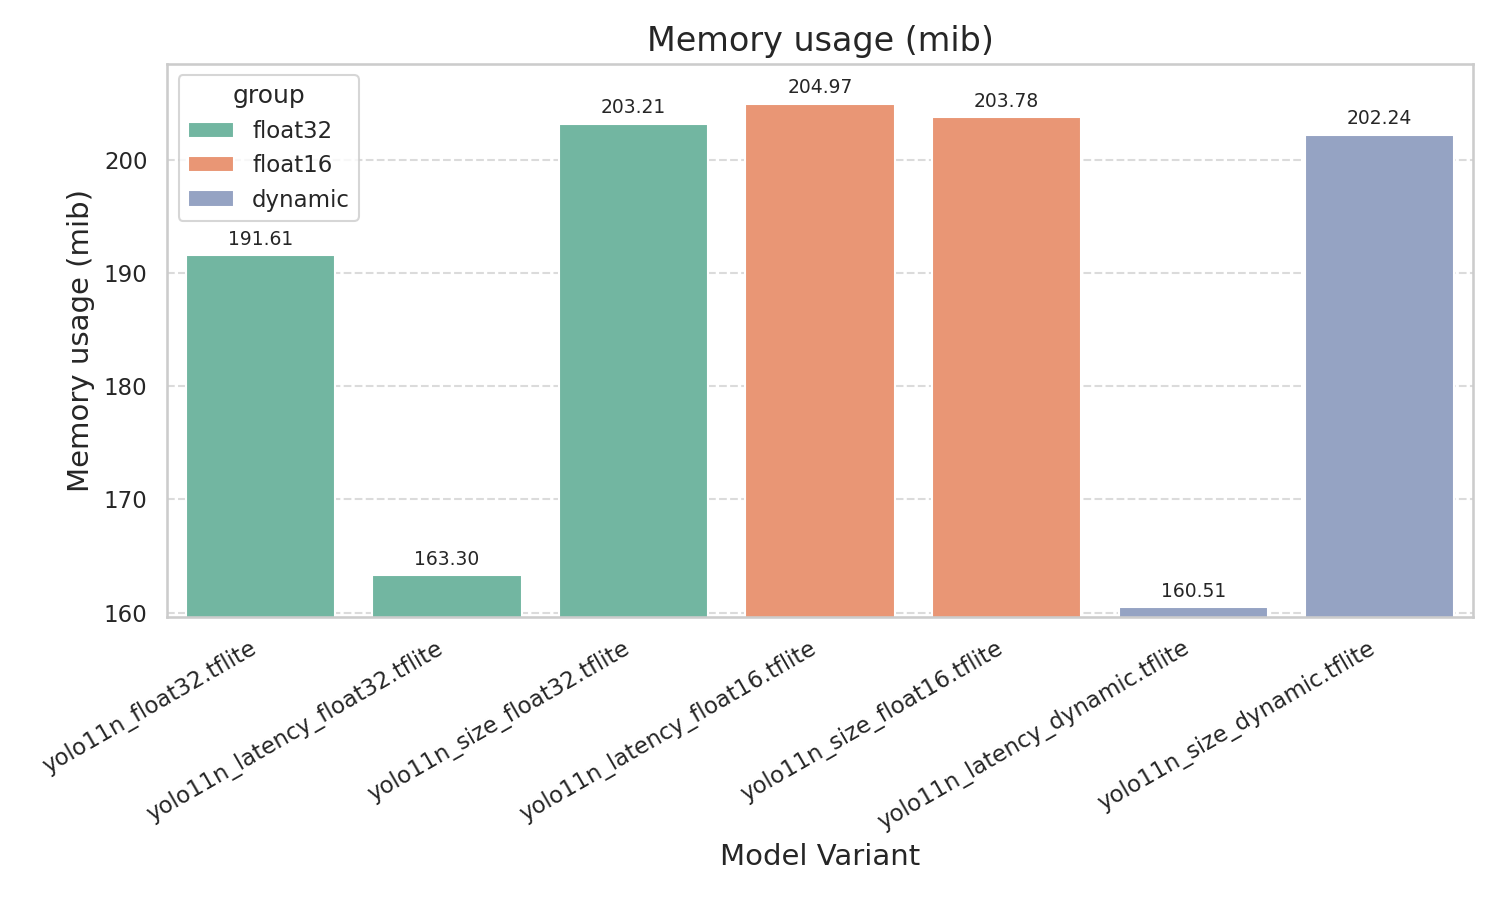
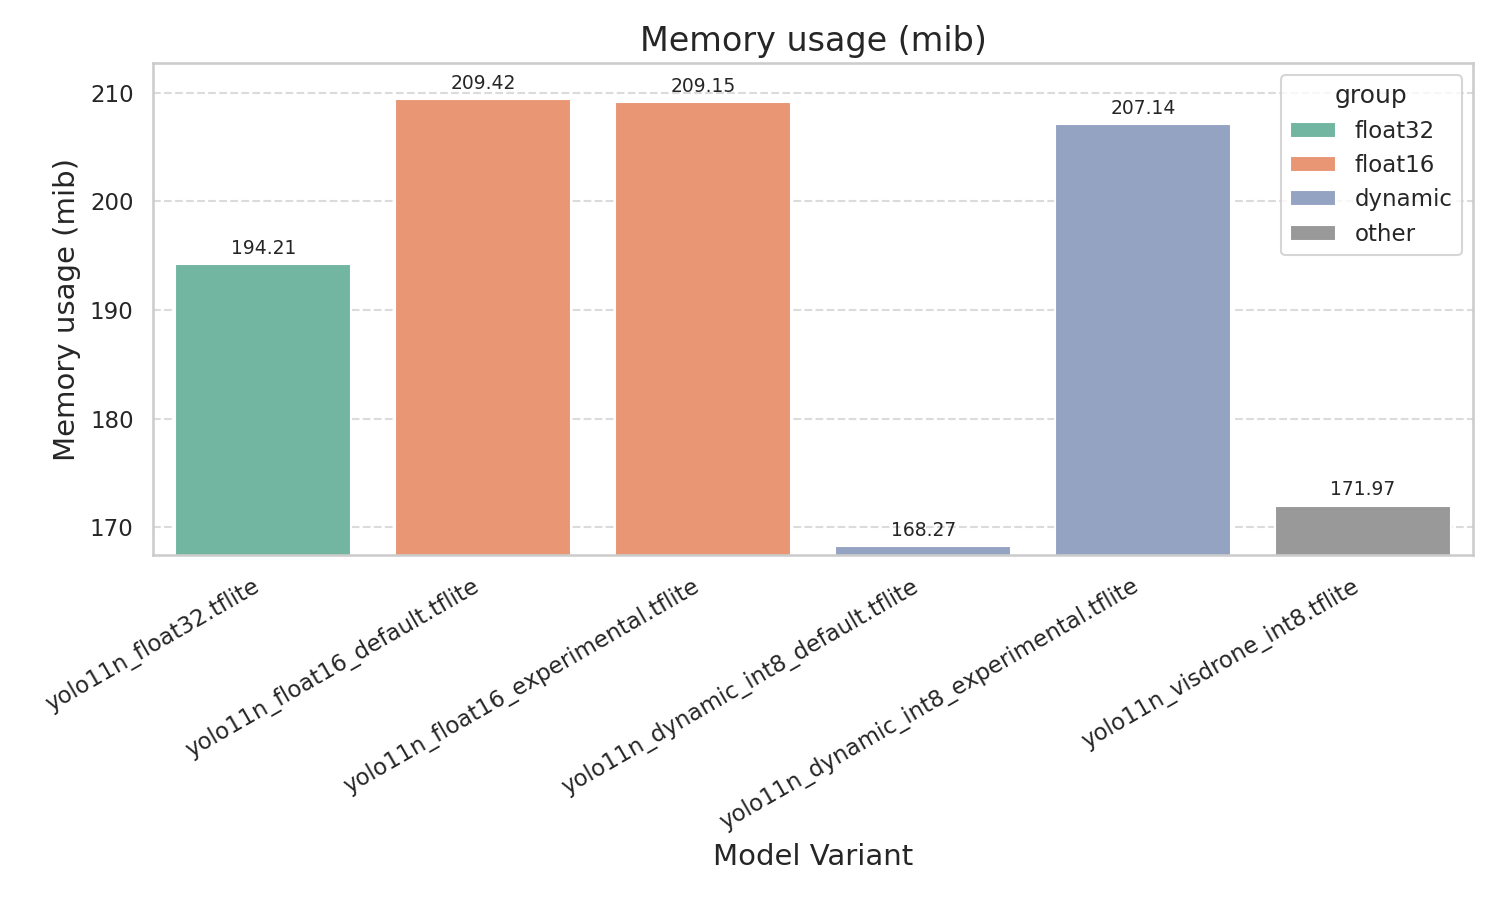
new benchmark plots

diff --git a/src/visualization/plot_benchmarks.py b/src/visualization/plot_benchmarks.py
@@ -10,7 +10,7 @@ sns.set_theme(style="whitegrid")
 
 if __name__ == '__main__':
 
-    JSON_PATH = 'output/benchmark_results_10_20_183504.json'  # Relative to project root
+    JSON_PATH = 'output/benchmark_results_10_22_154343.json'  # Relative to project root
 
     with open(JSON_PATH, 'r') as f:
         data = json.load(f)
